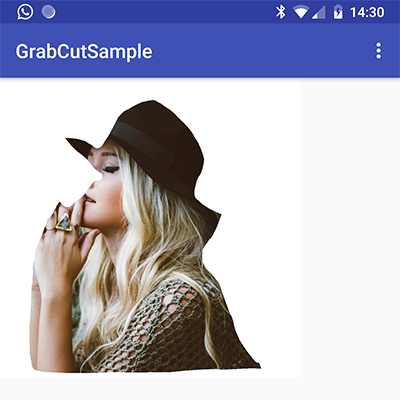
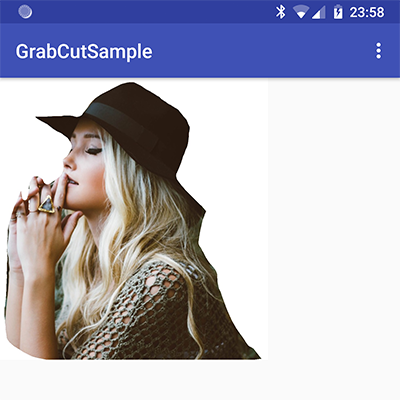
[mod] Offset the drawn polygon to 0,0 and crop the source image [fix] copy-paste error in determining bounding box of polyline

diff --git a/app/src/main/java/com/github/mrmitew/grabcutsample/MainActivity.kt b/app/src/main/java/com/github/mrmitew/grabcutsample/MainActivity.kt
@@ -105,8 +105,8 @@ class MainActivity : AppCompatActivity() {
                     path.lineTo(xScaled, yScaled)
                     left = Math.min(xScaled, left)
                     right = Math.max(xScaled, right)
-                    top = Math.min(xScaled, top)
-                    bottom = Math.max(xScaled, bottom)
+                    top = Math.min(yScaled, top)
+                    bottom = Math.max(yScaled, bottom)
                 }
                 event.action == MotionEvent.ACTION_UP -> {
                     coordinates?.add(Point(xScaled.toDouble(), yScaled.toDouble()))
@@ -290,12 +290,30 @@ class MainActivity : AppCompatActivity() {
         val bgModel = Mat()
         val fgModel = Mat()
 
+        // Load source again
         val srcImage = Imgcodecs.imread(currentPhotoPath.absolutePath)
+
+        // Bounding box of the polyline
+        left = Math.max(0f, left - LINE_WIDTH * .5f)
+        top = Math.max(0f, top - LINE_WIDTH * .5f)
+        right = Math.min(srcImage.width().toFloat(), right + LINE_WIDTH * .5f)
+        bottom = Math.min(srcImage.height().toFloat(), bottom + LINE_WIDTH * .5f)
+        val rect = Rect(
+                Point(left.toDouble(), top.toDouble()),
+                Point(right.toDouble(), bottom.toDouble()))
 
         // Mask image where we specify which areas are background, foreground or probable background/foreground
         val firstMask = Mat(
-                Size(srcImage.cols().toDouble(), srcImage.rows().toDouble()),
+                //Size(srcImage.cols().toDouble(), srcImage.rows().toDouble()),
+                rect.size(),
                 CvType.CV_8UC1, colorBack)
+        // Offset all coordinates
+        coordinates.forEach { point: Point ->
+            run {
+                point.x -= left
+                point.y -= top
+            }
+        }
         // Fill the polygon
         val mop = MatOfPoint().apply {
             fromList(coordinates)
@@ -308,17 +326,15 @@ class MainActivity : AppCompatActivity() {
         Imgcodecs.imwrite(currentPhotoPath.absolutePath + "_1_firstmask.jpg", firstMask)
 
         val source = Mat(1, 1, CvType.CV_8U, colorInside)
-        val rect = Rect(
-                Point(left.toDouble(), top.toDouble()),
-                Point(right.toDouble(), bottom.toDouble()))
-
-        val median = srcImage.clone()
-        Imgproc.medianBlur(median, srcImage, MEDIAN_BLUR_SIZE)
-        median.release()
+        val cropped = Mat(srcImage, rect)
+        srcImage.release()
+        val median = cropped.clone()
+        Imgproc.medianBlur(cropped, median, MEDIAN_BLUR_SIZE)
+        cropped.release()
 
         // Run the grab cut algorithm with a rectangle (for subsequent iterations with touch-up strokes,
         // flag should be Imgproc.GC_INIT_WITH_MASK)
-        Imgproc.grabCut(srcImage, firstMask, rect, bgModel, fgModel, GRABCUT_ITERATIONS, Imgproc.GC_INIT_WITH_MASK)
+        Imgproc.grabCut(median, firstMask, rect, bgModel, fgModel, GRABCUT_ITERATIONS, Imgproc.GC_INIT_WITH_MASK)
 
         // Create a matrix of 0s and 1s, indicating whether individual pixels are equal
         // or different between "firstMask" and "source" objects
@@ -326,22 +342,22 @@ class MainActivity : AppCompatActivity() {
         Core.compare(firstMask, source, firstMask, Core.CMP_EQ)
 
         // Create a matrix to represent the foreground, filled with white color
-        val foreground = Mat(srcImage.size(), CvType.CV_8UC3, Scalar(255.0, 255.0, 255.0))
+        val foreground = Mat(median.size(), CvType.CV_8UC3, Scalar(255.0, 255.0, 255.0))
 
         // Copy the foreground matrix to the first mask
-        srcImage.copyTo(foreground, firstMask)
+        median.copyTo(foreground, firstMask)
 
         // Create a red color
-        val color = Scalar(255.0, 0.0, 0.0, 255.0)
+//        val color = Scalar(255.0, 0.0, 0.0, 255.0)
         // Draw a rectangle using the coordinates of the bounding box that surrounds the foreground
-        Imgproc.rectangle(srcImage,
-                Point(left.toDouble(), top.toDouble()),
-                Point(right.toDouble(), bottom.toDouble()),
-                color)
+//        Imgproc.rectangle(srcImage,
+//                Point(left.toDouble(), top.toDouble()),
+//                Point(right.toDouble(), bottom.toDouble()),
+//                color)
         Imgcodecs.imwrite(currentPhotoPath.absolutePath + "_2_foreground.jpg", firstMask)
 
         // Create a new matrix to represent the background, filled with white color
-        val background = Mat(srcImage.size(), CvType.CV_8UC3, Scalar(255.0, 255.0, 255.0))
+        val background = Mat(median.size(), CvType.CV_8UC3, Scalar(255.0, 255.0, 255.0))
         Imgcodecs.imwrite(currentPhotoPath.absolutePath + "_3_background.jpg", background)
 
         val mask = Mat(foreground.size(), CvType.CV_8UC1, Scalar(255.0, 255.0, 255.0))

diff --git a/README.md b/README.md
@@ -6,7 +6,6 @@ A dummy app that demonstrates foreground-background segmentation using the GrabC
 
 ## To do:
 
-- [ ] Offset the drawn polygon to 0,0 and crop the source image
 - [ ] Use findContours to pick the largest contour in the mask
 - [ ] Perform poor man's anti-aliasing by rendering the contour on a 4x upscaled mask and resize down the cut image. 
 
